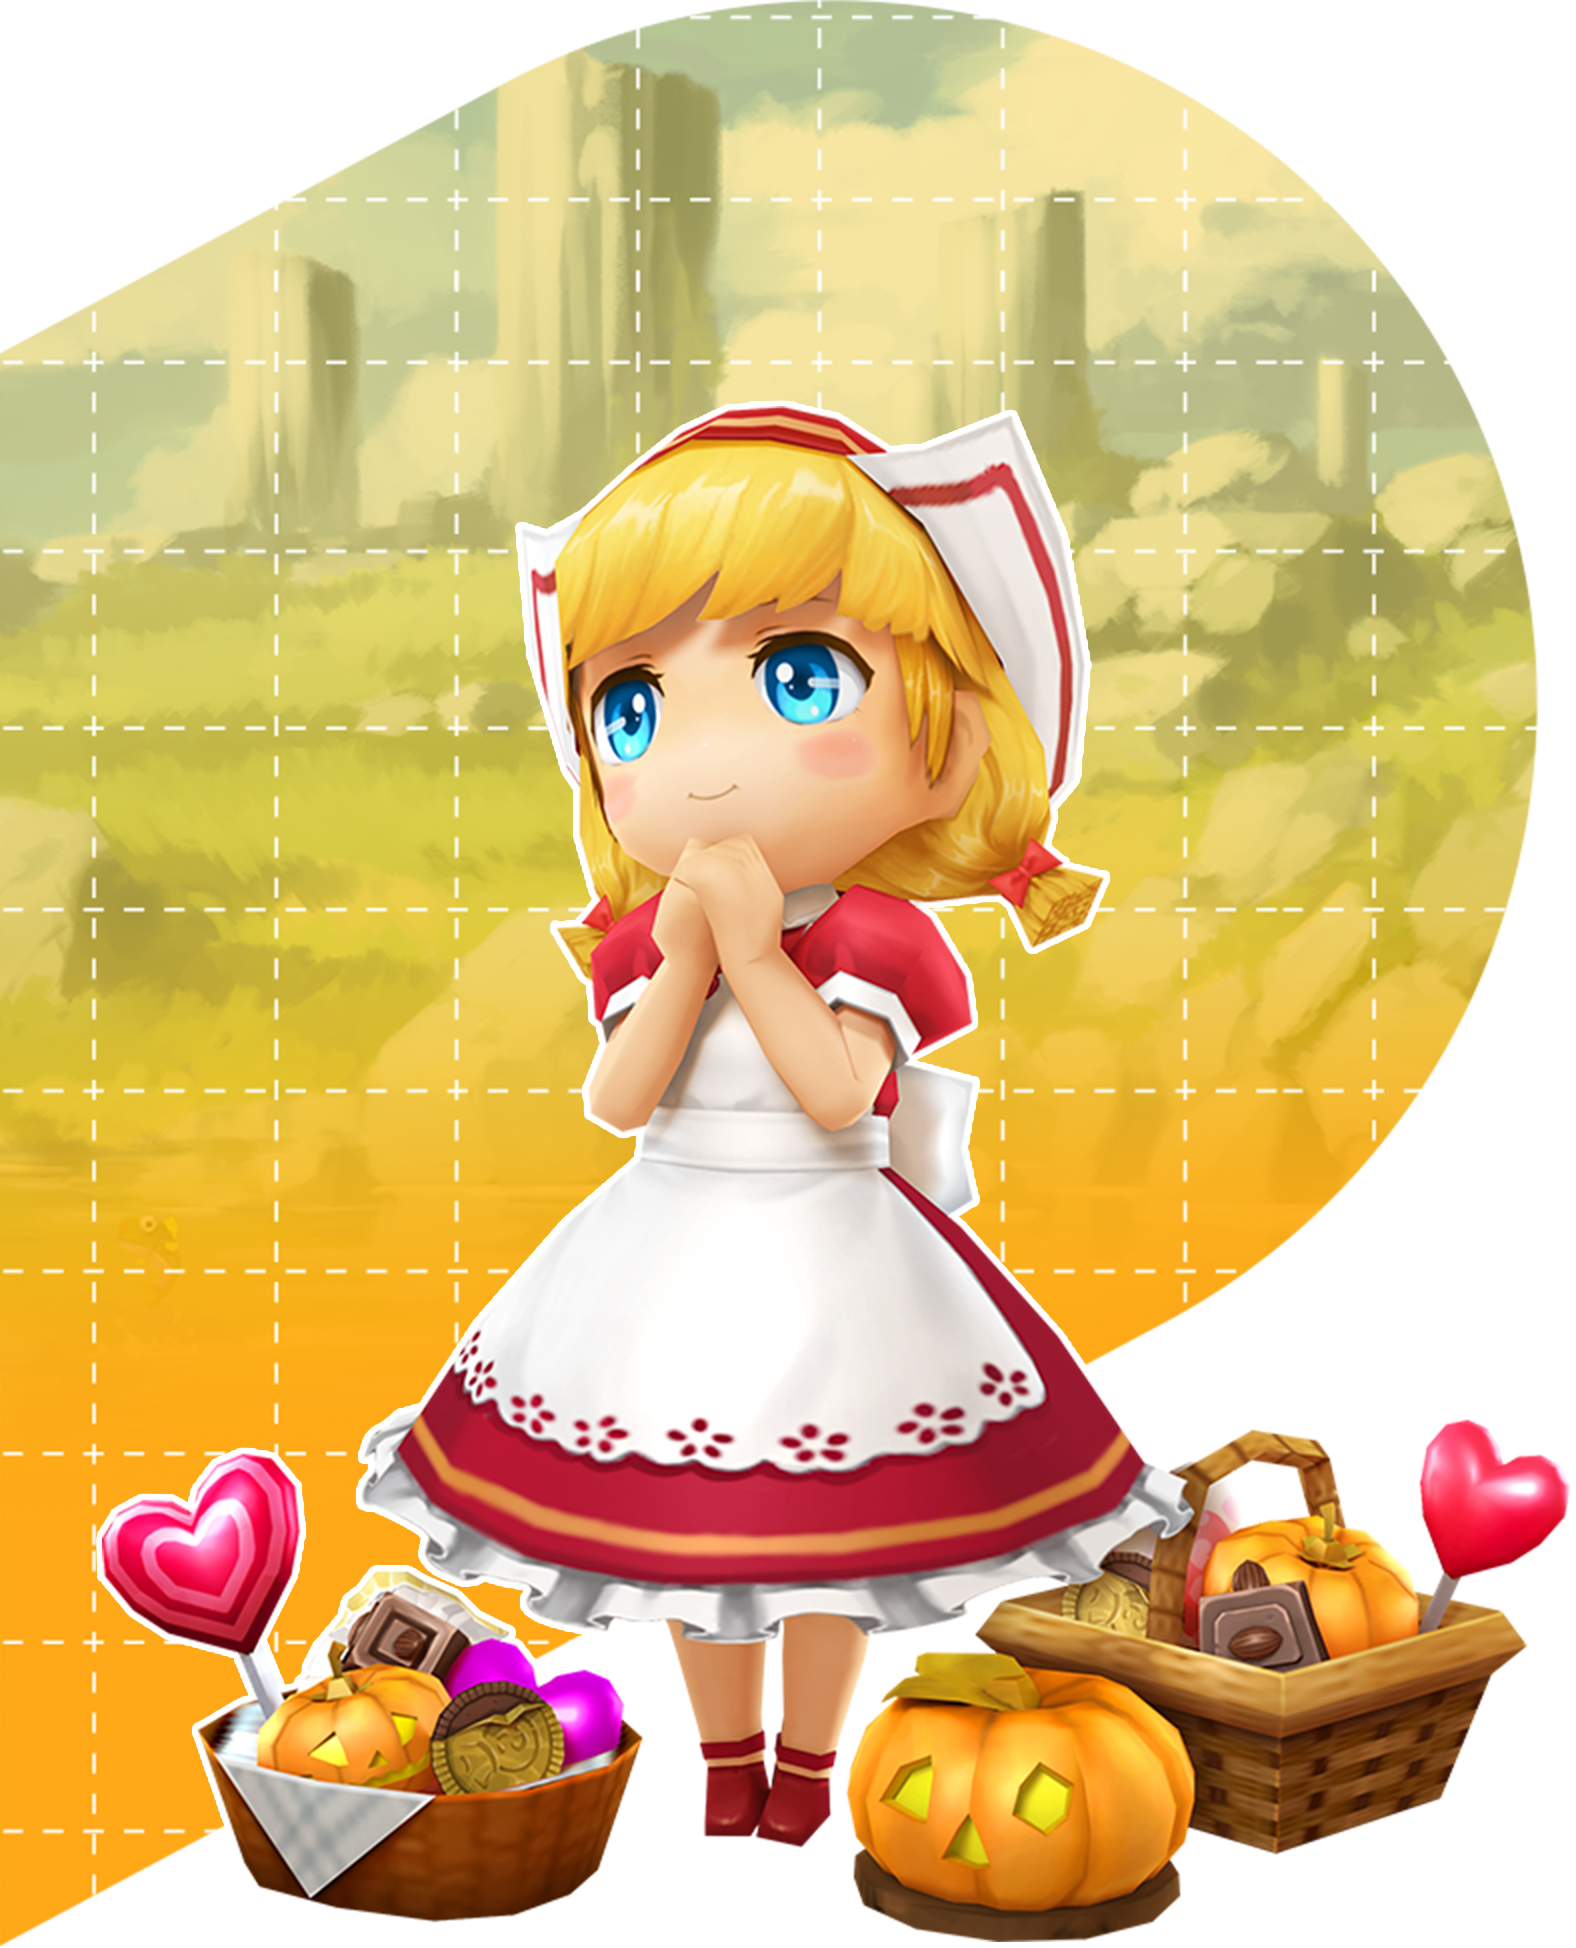
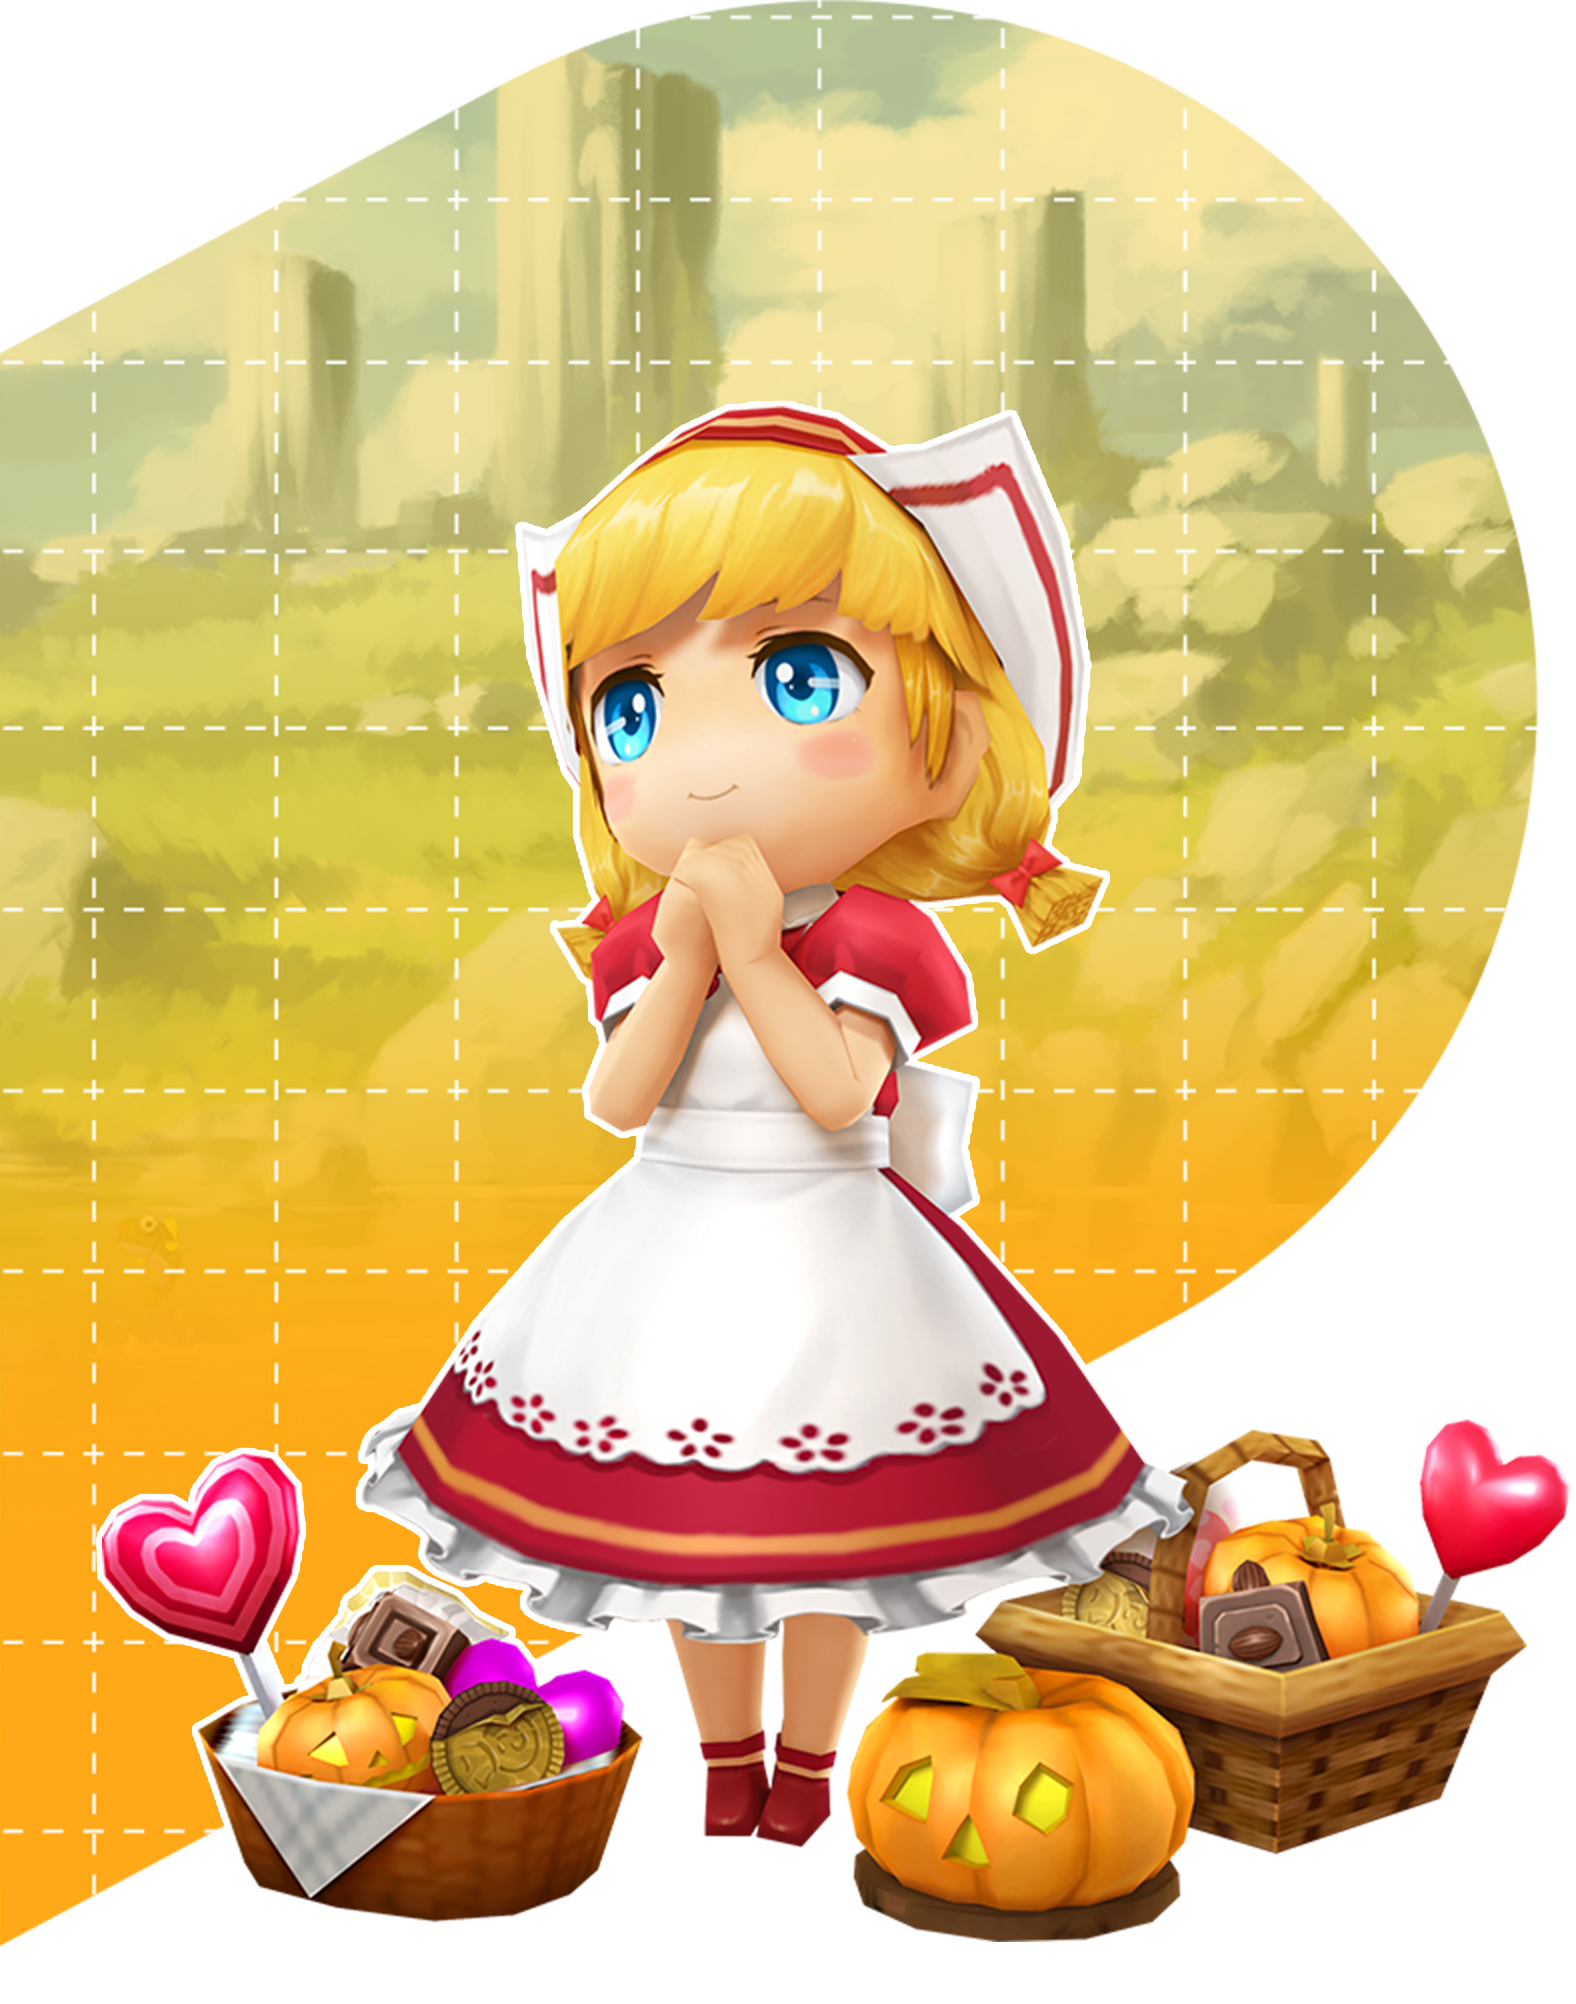
fix

diff --git a/ml-20221003/css/app.css b/ml-20221003/css/app.css
@@ -1422,12 +1422,12 @@ button.swiper-pagination-bullet {
   font-size: 0;
 }
 .section-a-1__bg {
-  width: 769px;
-  height: 974px;
+  width: 788px;
+  height: 1002px;
   top: 22px;
   position: absolute;
   left: 50%;
-  transform: translate3d(-125%, 0, 0);
+  transform: translate3d(-121.8%, 0, 0);
   background: transparent url("../images/section-a-1-bg@2x.png") no-repeat 0 0;
   background-size: 100% auto;
   z-index: 0;
@@ -1525,12 +1525,12 @@ button.swiper-pagination-bullet {
   font-size: 0;
 }
 .section-a-2__bg {
-  width: 769px;
-  height: 974px;
+  width: 788px;
+  height: 1002px;
   top: 22px;
   position: absolute;
   left: 50%;
-  transform: translate3d(-125%, 0, 0);
+  transform: translate3d(-121.8%, 0, 0);
   background: transparent url("../images/section-a-2-bg@2x.png") no-repeat 0 0;
   background-size: 100% auto;
   z-index: 0;
@@ -1698,12 +1698,12 @@ button.swiper-pagination-bullet {
   font-size: 0;
 }
 .section-a-3__bg {
-  width: 769px;
-  height: 974px;
+  width: 788px;
+  height: 1002px;
   top: 22px;
   position: absolute;
   left: 50%;
-  transform: translate3d(-125%, 0, 0);
+  transform: translate3d(-121.8%, 0, 0);
   background: transparent url("../images/section-a-3-bg@2x.png") no-repeat 0 0;
   background-size: 100% auto;
   z-index: 0;
